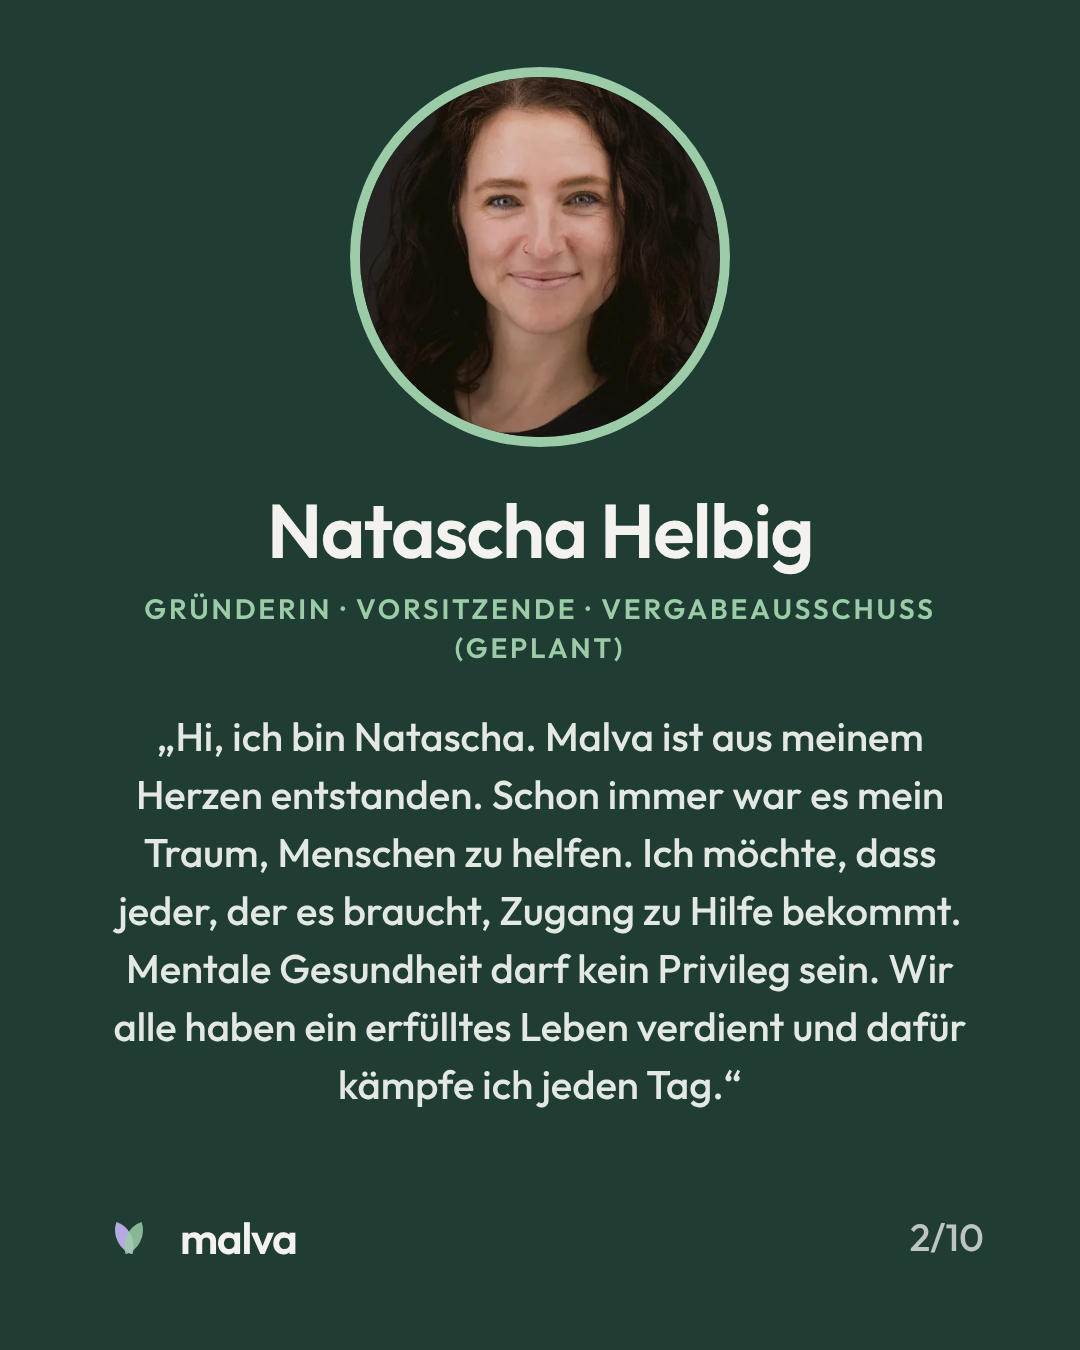
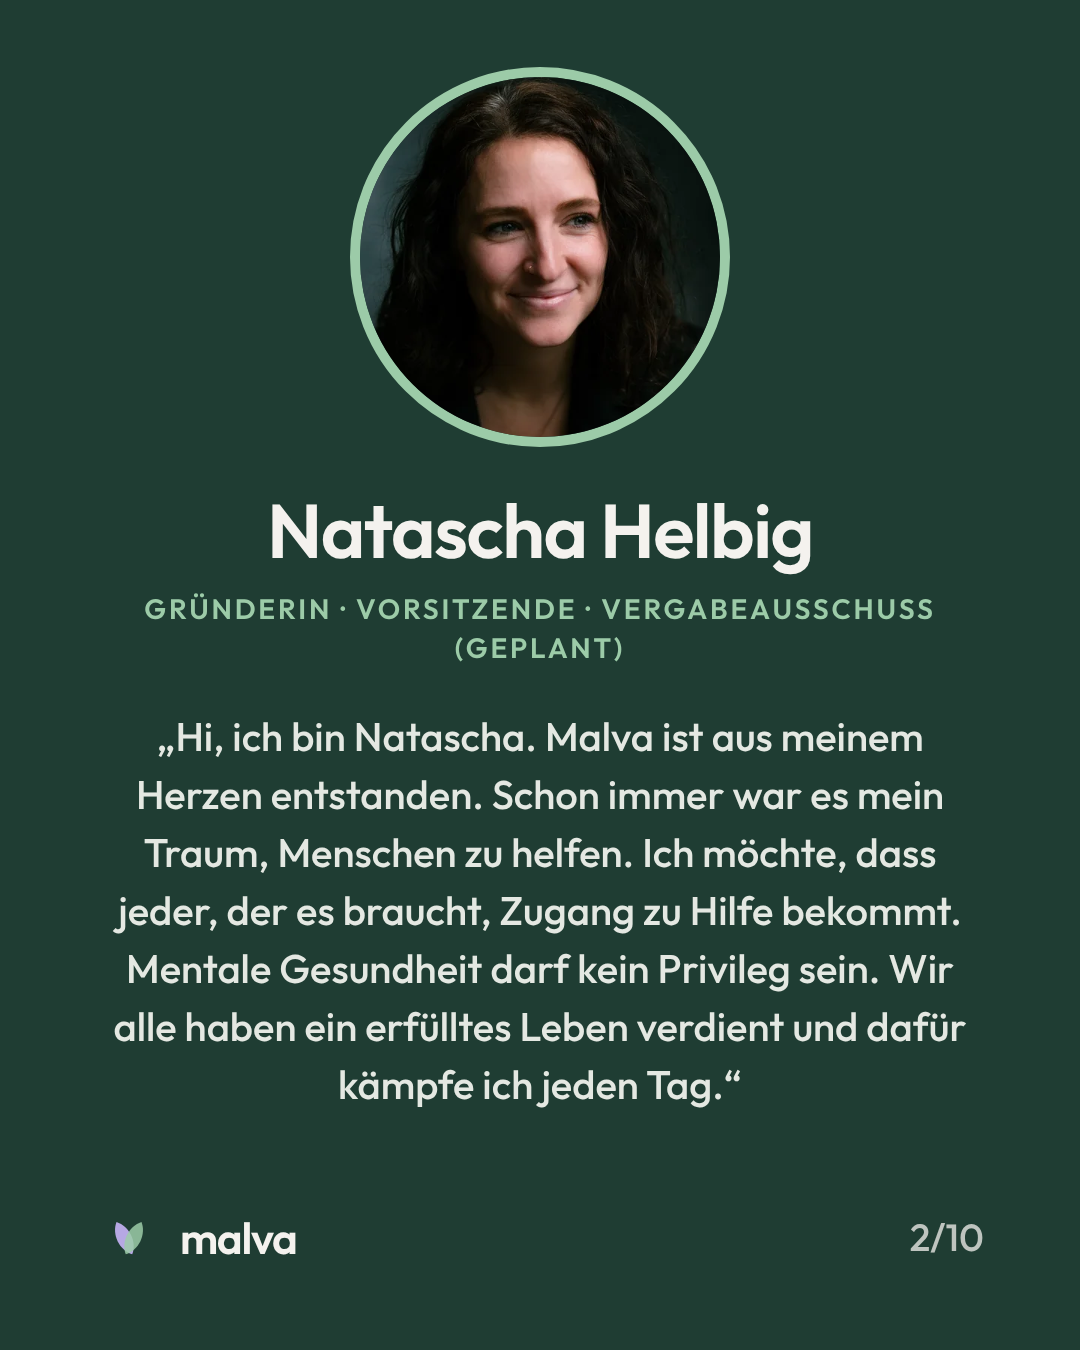
Insta-Team-Karussell: gleiches Foto wie auf der Website
Claude-Session: https://claude.ai/code/session_015uEer6M6e5oi78ZvJtGjnt

diff --git a/malva-website/instagram/team/slides.html b/malva-website/instagram/team/slides.html
@@ -49,11 +49,11 @@ h2{font-weight:600;font-size:82px;line-height:1.12;letter-spacing:-.025em}
 <section class="slide dark center" id="s01">
   <p class="kicker">Das Team hinter Malva</p>
   <h1 style="font-size:120px">Gemeinsam für<br><span class="hl">mentale Gesundheit.</span></h1>
-  <div class="faces"><img src="../../src/assets/img/natascha-helbig-team-rund.webp" alt=""><img src="../../src/assets/img/jennifer-rebelein-rund.webp" alt=""><img src="../../src/assets/img/christine-franz-rund.webp" alt=""><img src="../../src/assets/img/marco-kraft-rund.webp" alt=""><img src="../../src/assets/img/natascha-pusch-rund.webp" alt=""><img src="../../src/assets/img/christina-schifferer-rund.webp" alt=""><img src="../../src/assets/img/helmut-vohl-rund.webp" alt=""><img src="../../src/assets/img/florian-wittmann-rund.webp" alt=""></div>
+  <div class="faces"><img src="../../src/assets/img/natascha-helbig-studio2-rund.webp" alt=""><img src="../../src/assets/img/jennifer-rebelein-rund.webp" alt=""><img src="../../src/assets/img/christine-franz-rund.webp" alt=""><img src="../../src/assets/img/marco-kraft-rund.webp" alt=""><img src="../../src/assets/img/natascha-pusch-rund.webp" alt=""><img src="../../src/assets/img/christina-schifferer-rund.webp" alt=""><img src="../../src/assets/img/helmut-vohl-rund.webp" alt=""><img src="../../src/assets/img/florian-wittmann-rund.webp" alt=""></div>
   <div class="foot"><div class="brand" data-mark="d"><span>malva</span></div><span class="more">Lern uns kennen →</span></div>
 </section>
 <section class="slide dark m" id="s02">
-  <img class="pic" src="../../src/assets/img/natascha-helbig-team-rund.webp" alt="">
+  <img class="pic" src="../../src/assets/img/natascha-helbig-studio2-rund.webp" alt="">
   <p class="nm">Natascha Helbig</p>
   <p class="rl">Gründerin · Vorsitzende · Vergabeausschuss (geplant)</p>
   <p class="q">„Hi, ich bin Natascha. Malva ist aus meinem Herzen entstanden. Schon immer war es mein Traum, Menschen zu helfen. Ich möchte, dass jeder, der es braucht, Zugang zu Hilfe bekommt. Mentale Gesundheit darf kein Privileg sein. Wir alle haben ein erfülltes Leben verdient und dafür kämpfe ich jeden Tag.“</p>
